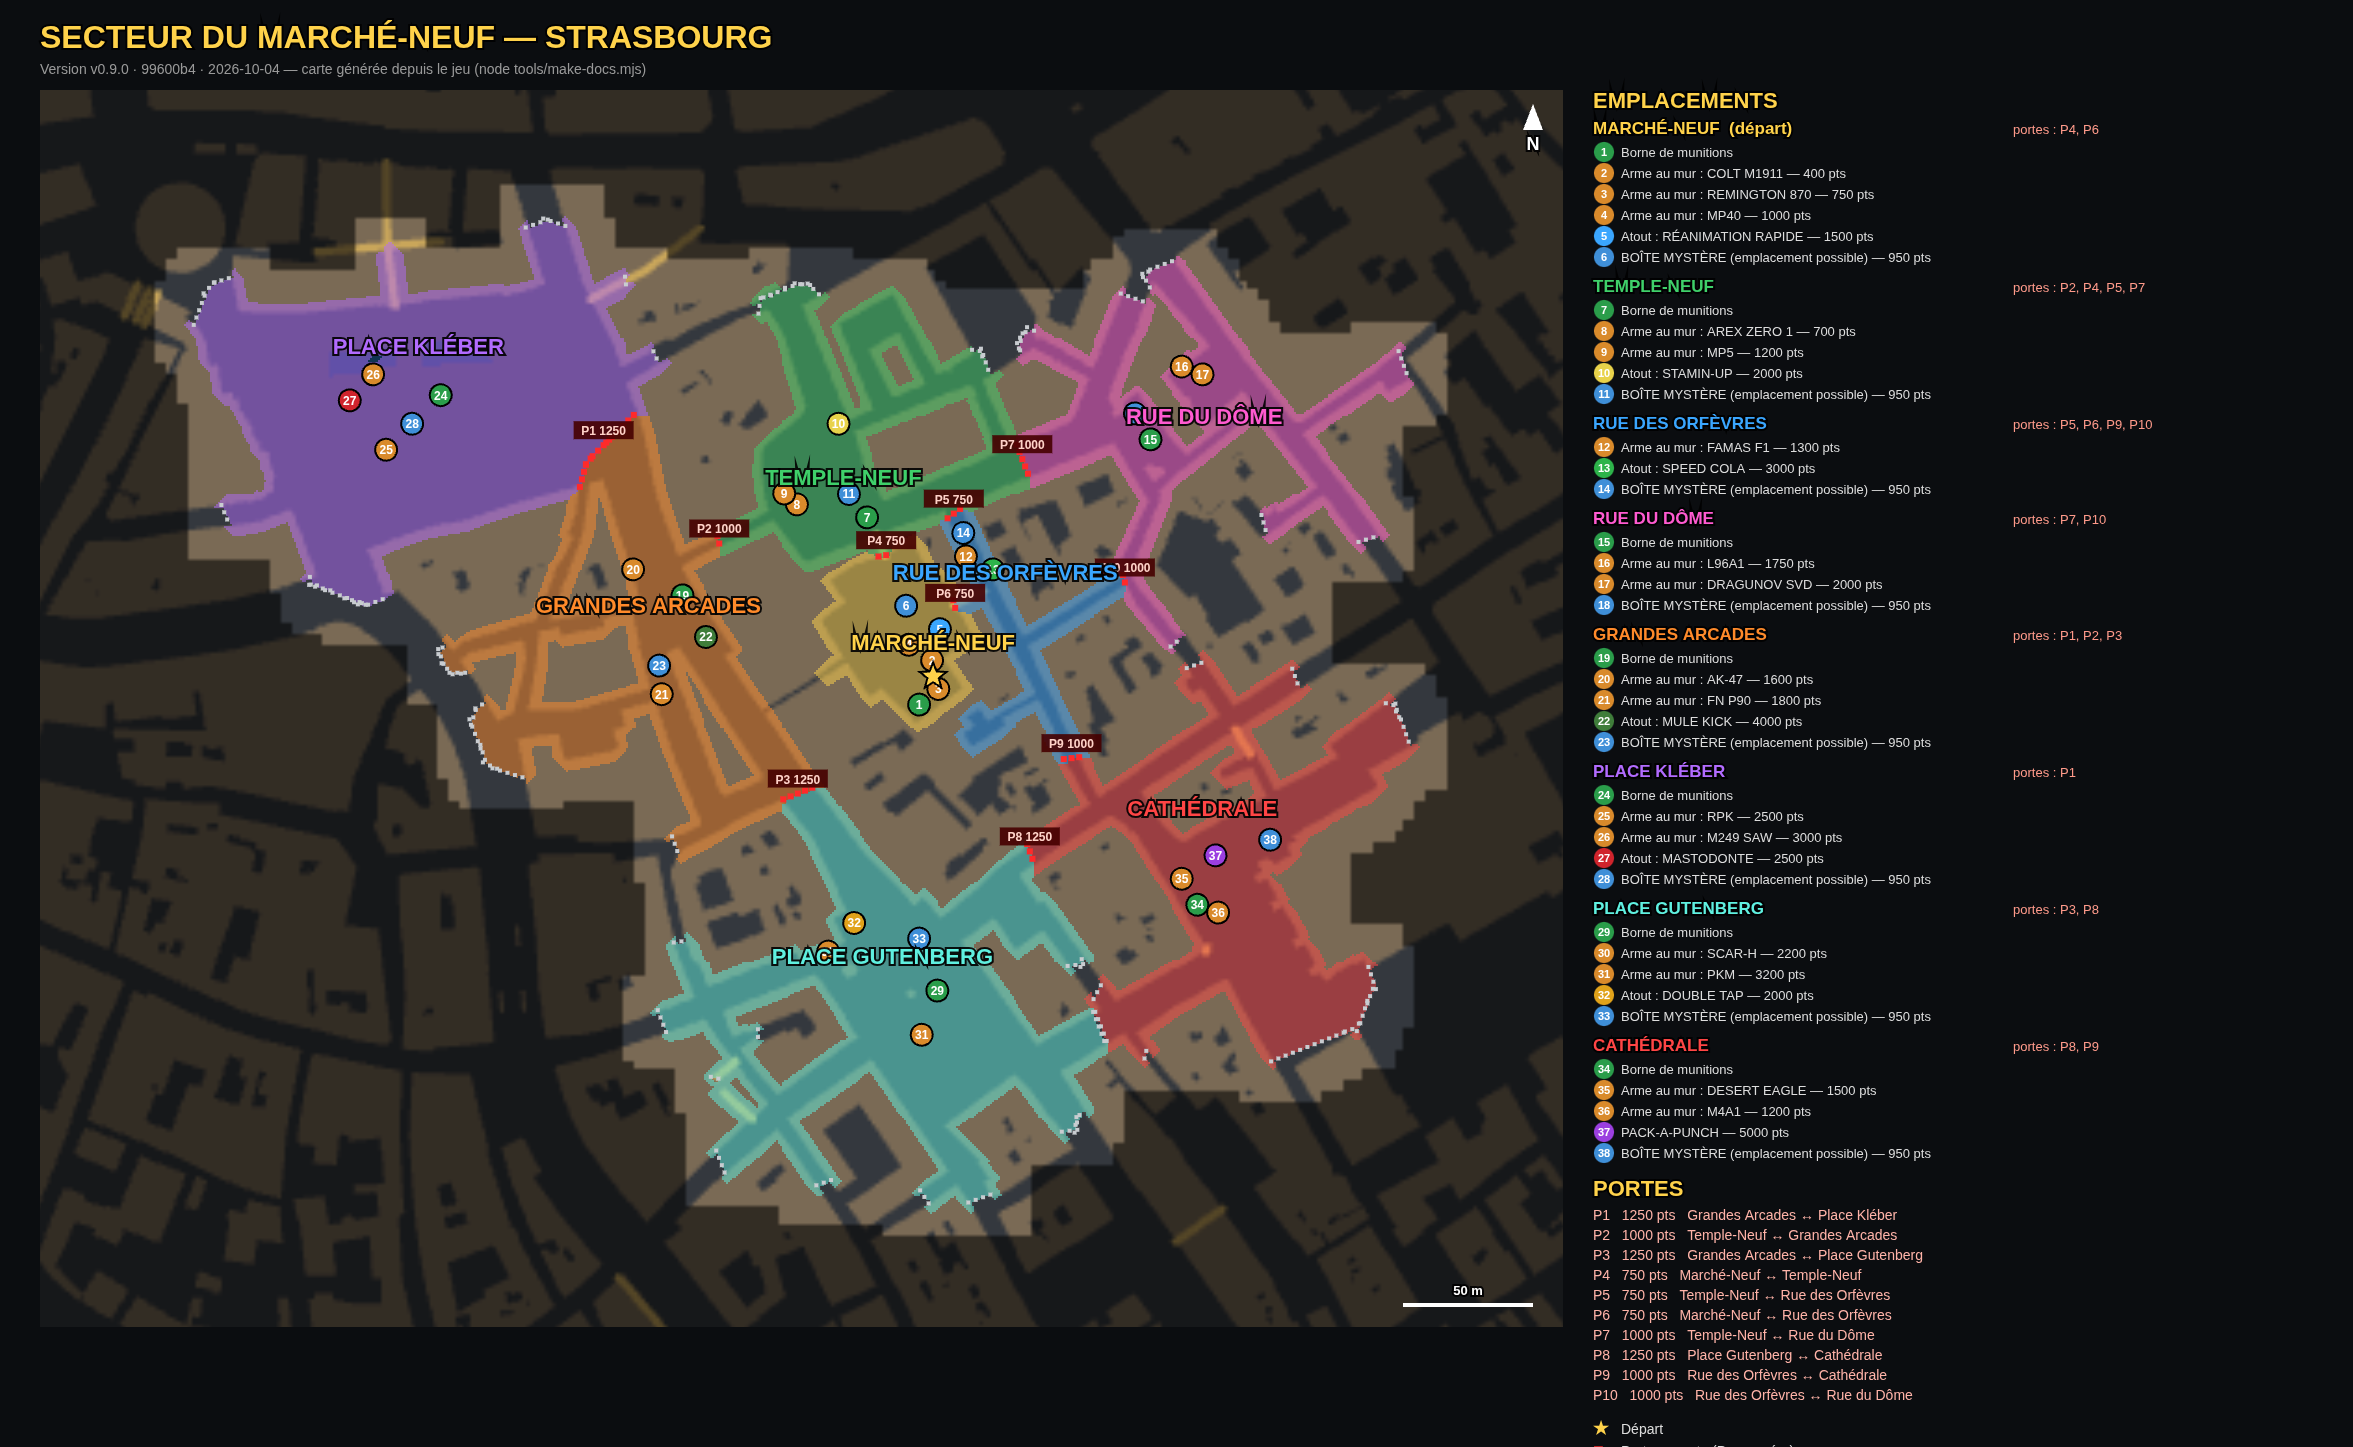
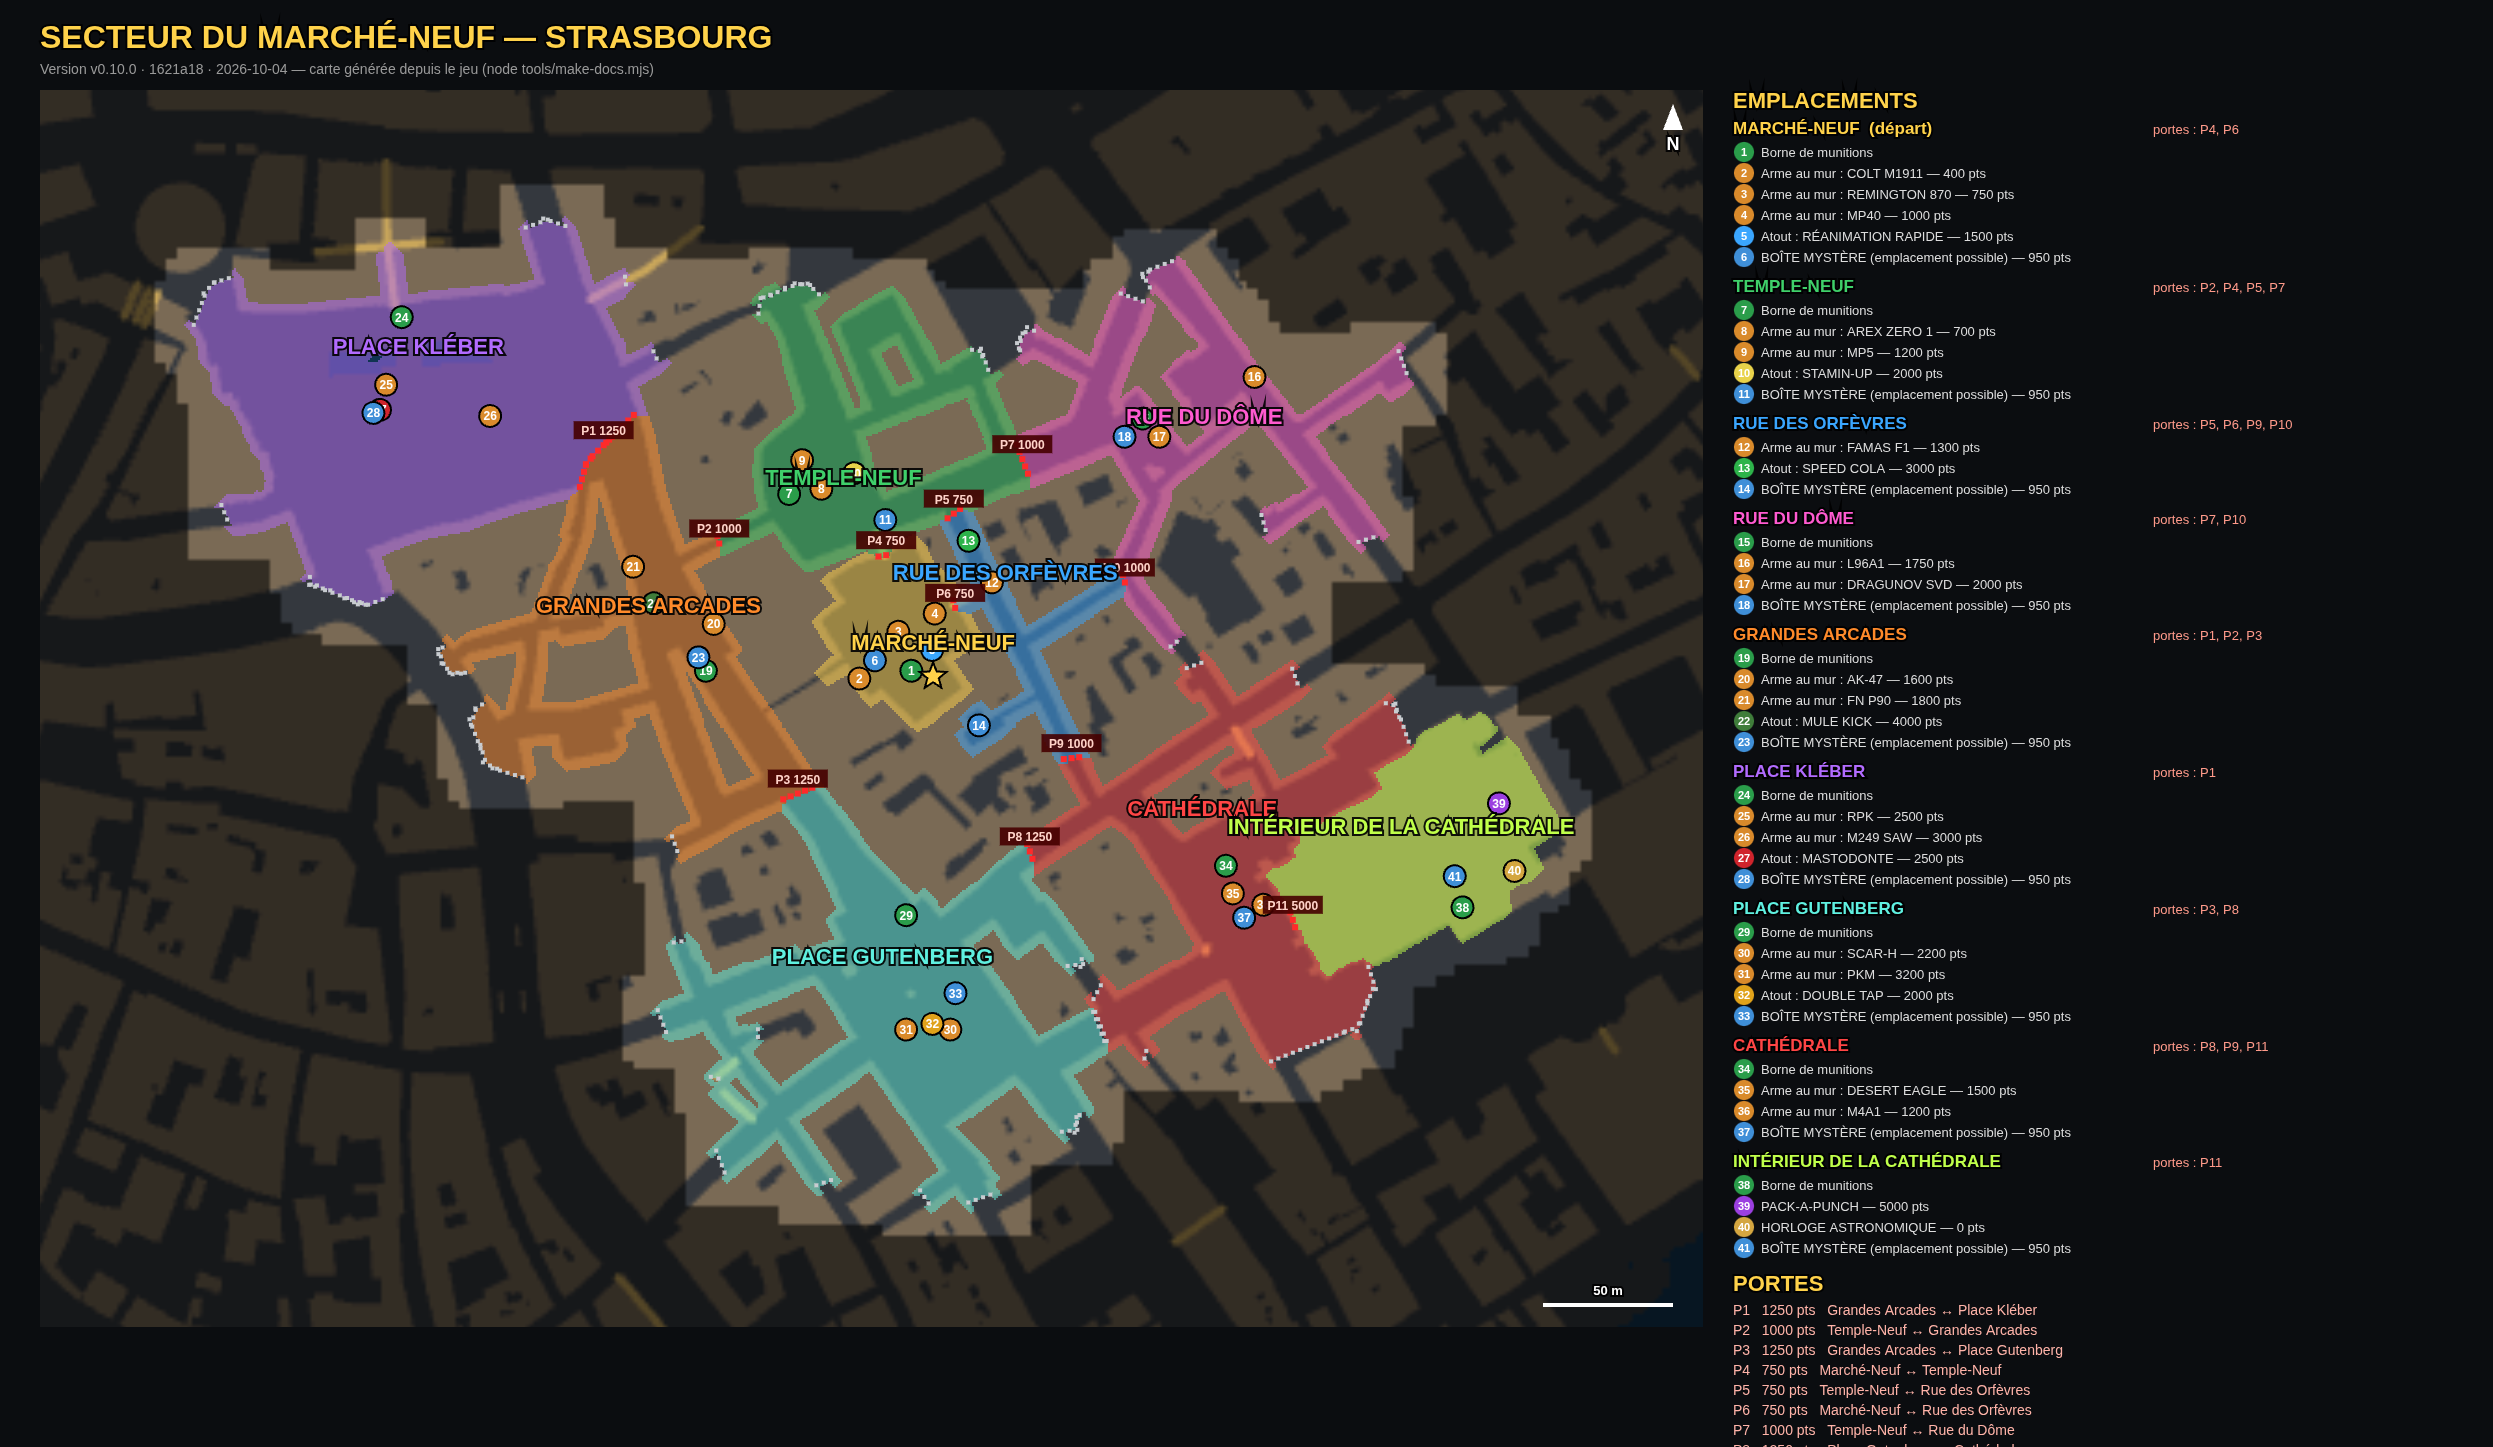
Regenerate docs (v0.10.0) with the cathedral zone

diff --git a/docs/REFERENCE.md b/docs/REFERENCE.md
@@ -1,6 +1,6 @@
 # Zombie Survival — fiche de référence
 
-Version du jeu : **v0.9.0 · 99600b4 · 2026-10-04** (package 0.9.0). Générée automatiquement par `node tools/make-docs.mjs` à partir de `src/config.js` et du jeu.
+Version du jeu : **v0.10.0 · 1621a18 · 2026-10-04** (package 0.10.0). Générée automatiquement par `node tools/make-docs.mjs` à partir de `src/config.js` et du jeu.
 Carte annotée : [carte.png](carte.png). Armes de profil : [armes.png](armes.png). Les mêmes tableaux en tableur : dossier [csv/](csv/).
 
 Pour demander une modification, citez la ligne (ex. « Mitrailleuse RPK : chargeur 100 », « Mastodonte à 3000 pts », « porte P3 à 500 pts », « mettre la boîte mystère dans la zone Temple-Neuf »).
@@ -8,7 +8,7 @@ Pour demander une modification, citez la ligne (ex. « Mitrailleuse RPK : charge
 ## Secteur jouable
 
 Seul le secteur autour de la place du Marché-Neuf est ouvert ; le reste de la Grande Île est visible mais fermé par des barricades « ZONE FERMÉE ».
-Il est découpé en 8 zones, chacune construite autour d'un vrai lieu : chaque rue va à la zone la plus proche à pied (jusqu'à 95 m), et les portes se trouvent entre deux zones.
+Il est découpé en 9 zones, chacune construite autour d'un vrai lieu : chaque rue va à la zone la plus proche à pied (jusqu'à 95 m), et les portes se trouvent entre deux zones.
 Prix des portes : 750 pts pour une zone voisine du départ, +250 par zone plus loin. Le contenu de chaque zone se règle dans `src/config.js` → `sector.zones[].items`.
 
 ## Armes
@@ -207,7 +207,8 @@ Prix des portes : 750 pts pour une zone voisine du départ, +250 par zone plus l
 | Grandes Arcades |  | -110 ; -45 | P1, P2, P3 | station, wall:ak47, wall:p90, perk:mulekick, box | 1 | AK-47, FN P90 | MULE KICK, BOÎTE MYSTÈRE |
 | Place Kléber |  | -199 ; -145 | P1 | station, perk:juggernog, wall:lmg, wall:m249, box | 1 | RPK, M249 SAW | MASTODONTE, BOÎTE MYSTÈRE |
 | Place Gutenberg |  | -20 ; 90 | P3, P8 | station, perk:doubletap, wall:scar, wall:pkm, box | 1 | SCAR-H, PKM | DOUBLE TAP, BOÎTE MYSTÈRE |
-| Cathédrale |  | 103 ; 33 | P8, P9 | station, pap, wall:deagle, wall:rifle, box | 1 | DESERT EAGLE, M4A1 | PACK-A-PUNCH, BOÎTE MYSTÈRE |
+| Cathédrale |  | 103 ; 33 | P8, P9, P11 | station, wall:deagle, wall:rifle, box | 1 | DESERT EAGLE, M4A1 | BOÎTE MYSTÈRE |
+| Intérieur de la Cathédrale |  | 179 ; 40 | P11 | pap, clock, station, box | 1 |  | PACK-A-PUNCH, HORLOGE ASTRONOMIQUE, BOÎTE MYSTÈRE |
 
 ## Portes
 
@@ -223,49 +224,53 @@ Prix des portes : 750 pts pour une zone voisine du départ, +250 par zone plus l
 | P8 | 1250 | Place Gutenberg | Cathédrale |
 | P9 | 1000 | Rue des Orfèvres | Cathédrale |
 | P10 | 1000 | Rue des Orfèvres | Rue du Dôme |
+| P11 | 5000 | Cathédrale | Intérieur de la Cathédrale |
 
 ## Emplacements
 
 | N° sur la carte | Type | Nom | Zone | Prix (pts) | x (m, vers l'est) | z (m, vers le sud) |
 |---|---|---|---|---|---|---|
-| 1 | Borne de munitions | Borne de munitions | Marché-Neuf |  | -6 | -20 |
-| 2 | Arme au mur | COLT M1911 | Marché-Neuf | 400 | -1 | -37 |
-| 3 | Arme au mur | REMINGTON 870 | Marché-Neuf | 750 | -4 | -26 |
-| 4 | Arme au mur | MP40 | Marché-Neuf | 1000 | -10 | -43 |
-| 5 | Atout | RÉANIMATION RAPIDE | Marché-Neuf | 1500 | 2 | -49 |
-| 6 | BOÎTE MYSTÈRE (emplacement possible) | BOÎTE MYSTÈRE (emplacement possible) | Marché-Neuf | 950 | -11 | -58 |
-| 7 | Borne de munitions | Borne de munitions | Temple-Neuf |  | -26 | -92 |
-| 8 | Arme au mur | AREX ZERO 1 | Temple-Neuf | 700 | -53 | -97 |
-| 9 | Arme au mur | MP5 | Temple-Neuf | 1200 | -58 | -101 |
-| 10 | Atout | STAMIN-UP | Temple-Neuf | 2000 | -37 | -128 |
-| 11 | BOÎTE MYSTÈRE (emplacement possible) | BOÎTE MYSTÈRE (emplacement possible) | Temple-Neuf | 950 | -33 | -101 |
-| 12 | Arme au mur | FAMAS F1 | Rue des Orfèvres | 1300 | 12 | -77 |
-| 13 | Atout | SPEED COLA | Rue des Orfèvres | 3000 | 17 | -72 |
-| 14 | BOÎTE MYSTÈRE (emplacement possible) | BOÎTE MYSTÈRE (emplacement possible) | Rue des Orfèvres | 950 | 11 | -86 |
-| 15 | Borne de munitions | Borne de munitions | Rue du Dôme |  | 83 | -122 |
-| 16 | Arme au mur | L96A1 | Rue du Dôme | 1750 | 95 | -150 |
-| 17 | Arme au mur | DRAGUNOV SVD | Rue du Dôme | 2000 | 103 | -147 |
-| 18 | BOÎTE MYSTÈRE (emplacement possible) | BOÎTE MYSTÈRE (emplacement possible) | Rue du Dôme | 950 | 77 | -132 |
-| 19 | Borne de munitions | Borne de munitions | Grandes Arcades |  | -97 | -62 |
-| 20 | Arme au mur | AK-47 | Grandes Arcades | 1600 | -116 | -72 |
-| 21 | Arme au mur | FN P90 | Grandes Arcades | 1800 | -105 | -24 |
-| 22 | Atout | MULE KICK | Grandes Arcades | 4000 | -88 | -46 |
-| 23 | BOÎTE MYSTÈRE (emplacement possible) | BOÎTE MYSTÈRE (emplacement possible) | Grandes Arcades | 950 | -106 | -35 |
-| 24 | Borne de munitions | Borne de munitions | Place Kléber |  | -190 | -139 |
-| 25 | Arme au mur | RPK | Place Kléber | 2500 | -211 | -118 |
-| 26 | Arme au mur | M249 SAW | Place Kléber | 3000 | -216 | -147 |
-| 27 | Atout | MASTODONTE | Place Kléber | 2500 | -225 | -137 |
-| 28 | BOÎTE MYSTÈRE (emplacement possible) | BOÎTE MYSTÈRE (emplacement possible) | Place Kléber | 950 | -201 | -128 |
-| 29 | Borne de munitions | Borne de munitions | Place Gutenberg |  | 1 | 90 |
-| 30 | Arme au mur | SCAR-H | Place Gutenberg | 2200 | -41 | 75 |
-| 31 | Arme au mur | PKM | Place Gutenberg | 3200 | -5 | 107 |
-| 32 | Atout | DOUBLE TAP | Place Gutenberg | 2000 | -31 | 64 |
-| 33 | BOÎTE MYSTÈRE (emplacement possible) | BOÎTE MYSTÈRE (emplacement possible) | Place Gutenberg | 950 | -6 | 70 |
-| 34 | Borne de munitions | Borne de munitions | Cathédrale |  | 101 | 57 |
-| 35 | Arme au mur | DESERT EAGLE | Cathédrale | 1500 | 95 | 47 |
-| 36 | Arme au mur | M4A1 | Cathédrale | 1200 | 109 | 60 |
-| 37 | PACK-A-PUNCH | PACK-A-PUNCH | Cathédrale | 5000 | 108 | 38 |
-| 38 | BOÎTE MYSTÈRE (emplacement possible) | BOÎTE MYSTÈRE (emplacement possible) | Cathédrale | 950 | 129 | 32 |
+| 1 | Borne de munitions | Borne de munitions | Marché-Neuf |  | -9 | -33 |
+| 2 | Arme au mur | COLT M1911 | Marché-Neuf | 400 | -29 | -30 |
+| 3 | Arme au mur | REMINGTON 870 | Marché-Neuf | 750 | -14 | -48 |
+| 4 | Arme au mur | MP40 | Marché-Neuf | 1000 | 0 | -55 |
+| 5 | Atout | RÉANIMATION RAPIDE | Marché-Neuf | 1500 | -1 | -41 |
+| 6 | BOÎTE MYSTÈRE (emplacement possible) | BOÎTE MYSTÈRE (emplacement possible) | Marché-Neuf | 950 | -23 | -37 |
+| 7 | Borne de munitions | Borne de munitions | Temple-Neuf |  | -56 | -101 |
+| 8 | Arme au mur | AREX ZERO 1 | Temple-Neuf | 700 | -49 | -103 |
+| 9 | Arme au mur | MP5 | Temple-Neuf | 1200 | -51 | -114 |
+| 10 | Atout | STAMIN-UP | Temple-Neuf | 2000 | -31 | -109 |
+| 11 | BOÎTE MYSTÈRE (emplacement possible) | BOÎTE MYSTÈRE (emplacement possible) | Temple-Neuf | 950 | -19 | -91 |
+| 12 | Arme au mur | FAMAS F1 | Rue des Orfèvres | 1300 | 22 | -67 |
+| 13 | Atout | SPEED COLA | Rue des Orfèvres | 3000 | 13 | -83 |
+| 14 | BOÎTE MYSTÈRE (emplacement possible) | BOÎTE MYSTÈRE (emplacement possible) | Rue des Orfèvres | 950 | 17 | -12 |
+| 15 | Borne de munitions | Borne de munitions | Rue du Dôme |  | 80 | -130 |
+| 16 | Arme au mur | L96A1 | Rue du Dôme | 1750 | 123 | -146 |
+| 17 | Arme au mur | DRAGUNOV SVD | Rue du Dôme | 2000 | 81 | -123 |
+| 18 | BOÎTE MYSTÈRE (emplacement possible) | BOÎTE MYSTÈRE (emplacement possible) | Rue du Dôme | 950 | 73 | -123 |
+| 19 | Borne de munitions | Borne de munitions | Grandes Arcades |  | -88 | -33 |
+| 20 | Arme au mur | AK-47 | Grandes Arcades | 1600 | -85 | -51 |
+| 21 | Arme au mur | FN P90 | Grandes Arcades | 1800 | -116 | -73 |
+| 22 | Atout | MULE KICK | Grandes Arcades | 4000 | -108 | -59 |
+| 23 | BOÎTE MYSTÈRE (emplacement possible) | BOÎTE MYSTÈRE (emplacement possible) | Grandes Arcades | 950 | -91 | -38 |
+| 24 | Borne de munitions | Borne de munitions | Place Kléber |  | -205 | -169 |
+| 25 | Arme au mur | RPK | Place Kléber | 2500 | -211 | -143 |
+| 26 | Arme au mur | M249 SAW | Place Kléber | 3000 | -171 | -131 |
+| 27 | Atout | MASTODONTE | Place Kléber | 2500 | -216 | -138 |
+| 28 | BOÎTE MYSTÈRE (emplacement possible) | BOÎTE MYSTÈRE (emplacement possible) | Place Kléber | 950 | -216 | -132 |
+| 29 | Borne de munitions | Borne de munitions | Place Gutenberg |  | -11 | 61 |
+| 30 | Arme au mur | SCAR-H | Place Gutenberg | 2200 | 6 | 105 |
+| 31 | Arme au mur | PKM | Place Gutenberg | 3200 | -11 | 105 |
+| 32 | Atout | DOUBLE TAP | Place Gutenberg | 2000 | -1 | 103 |
+| 33 | BOÎTE MYSTÈRE (emplacement possible) | BOÎTE MYSTÈRE (emplacement possible) | Place Gutenberg | 950 | 8 | 91 |
+| 34 | Borne de munitions | Borne de munitions | Cathédrale |  | 112 | 42 |
+| 35 | Arme au mur | DESERT EAGLE | Cathédrale | 1500 | 112 | 48 |
+| 36 | Arme au mur | M4A1 | Cathédrale | 1200 | 121 | 57 |
+| 37 | BOÎTE MYSTÈRE (emplacement possible) | BOÎTE MYSTÈRE (emplacement possible) | Cathédrale | 950 | 119 | 62 |
+| 38 | Borne de munitions | Borne de munitions | Intérieur de la Cathédrale |  | 203 | 58 |
+| 39 | PACK-A-PUNCH | PACK-A-PUNCH | Intérieur de la Cathédrale | 5000 | 217 | 18 |
+| 40 | HORLOGE ASTRONOMIQUE | HORLOGE ASTRONOMIQUE | Intérieur de la Cathédrale | 0 | 223 | 44 |
+| 41 | BOÎTE MYSTÈRE (emplacement possible) | BOÎTE MYSTÈRE (emplacement possible) | Intérieur de la Cathédrale | 950 | 200 | 46 |
 
 ## Commandes
 
